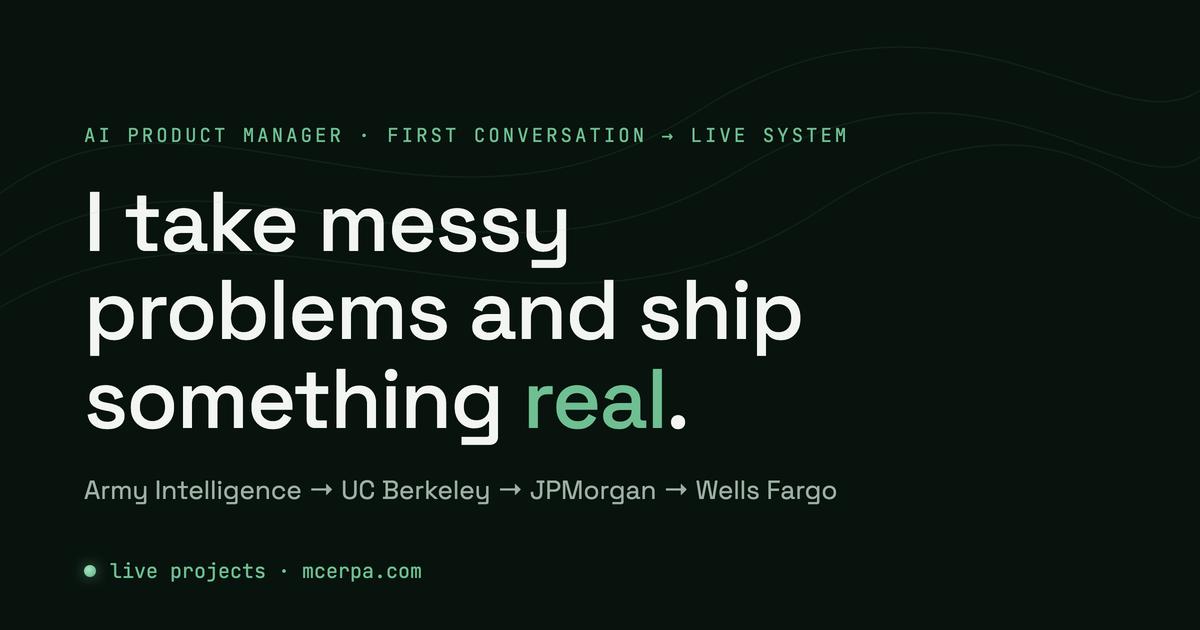
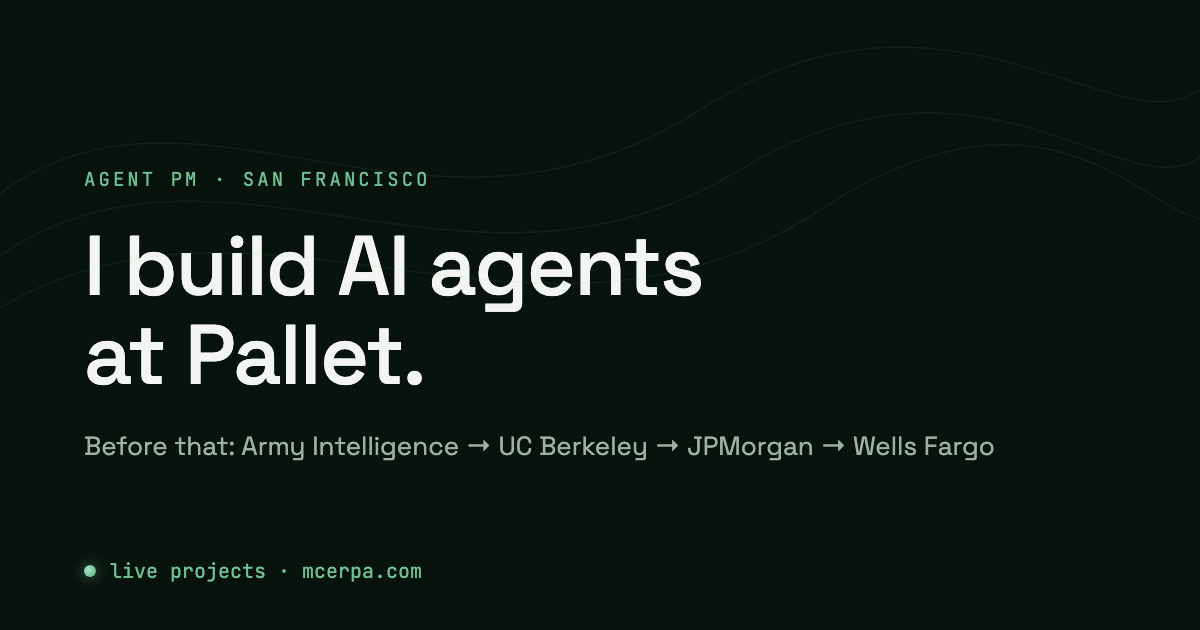
Site refresh: Pallet hero, Commute card, About rewrite
- Hero: the slogan is replaced with a plain fact — "I build AI agents at Pallet." —
  with the career arc as "Before that:" and an Agent PM · San Francisco eyebrow.
- Work: the "Work" heading and the Wells Fargo line are gone; the construction
  line stays as the only opener (heading kept for screen readers). Granite's blurb
  no longer points at "the platform work above".
- New stage 04 — Commute: the /bus/ (Golden Gate Transit) and /presidio/
  (Presidio GO) trackers, with live phone recordings from this morning's commute.
- About: Wells Fargo in the past tense and shorter; Pallet added.
- Meta tags, og.png social card, and README updated to match.

diff --git a/index.html b/index.html
@@ -3,8 +3,8 @@
 <head>
   <meta charset="UTF-8">
   <meta name="viewport" content="width=device-width, initial-scale=1.0">
-  <title>Michael Cerpa — AI Product Manager</title>
-  <meta name="description" content="AI Product Manager shipping 0-to-1 in regulated finance. Army Intelligence → UC Berkeley → JPMorgan → Wells Fargo. Live, clickable projects — not slideware.">
+  <title>Michael Cerpa — Agent PM</title>
+  <meta name="description" content="Michael Cerpa builds AI agents at Pallet. Before that: Army Intelligence, UC Berkeley, JPMorgan, Wells Fargo. Live projects you can open and use.">
   <meta name="theme-color" content="#08130D">
 
   <link rel="icon" type="image/png" sizes="48x48" href="favicon.png">
@@ -12,15 +12,15 @@
 
   <meta property="og:type" content="website">
   <meta property="og:site_name" content="Michael Cerpa">
-  <meta property="og:title" content="Michael Cerpa — AI Product Manager">
-  <meta property="og:description" content="I take messy problems and ship something real. Live projects from regulated-finance AI and the Sierra backcountry.">
+  <meta property="og:title" content="Michael Cerpa — Agent PM at Pallet">
+  <meta property="og:description" content="I build AI agents at Pallet. Live projects: enterprise AI, Sierra trip planning, and Bay Area transit.">
   <meta property="og:url" content="https://mcerpa.com/">
   <meta property="og:image" content="https://mcerpa.com/og.png">
   <meta property="og:image:width" content="1200">
   <meta property="og:image:height" content="630">
   <meta name="twitter:card" content="summary_large_image">
-  <meta name="twitter:title" content="Michael Cerpa — AI Product Manager">
-  <meta name="twitter:description" content="I take messy problems and ship something real. Live projects from regulated-finance AI and the Sierra backcountry.">
+  <meta name="twitter:title" content="Michael Cerpa — Agent PM at Pallet">
+  <meta name="twitter:description" content="I build AI agents at Pallet. Live projects: enterprise AI, Sierra trip planning, and Bay Area transit.">
   <meta name="twitter:image" content="https://mcerpa.com/og.png">
 
   <link rel="preload" href="fonts/SpaceGrotesk-var.woff2" as="font" type="font/woff2" crossorigin>
@@ -49,9 +49,9 @@
     <path d="M-20,185 C260,-30 560,280 910,75 S1420,185 1490,10" fill="none" stroke="#6FBF93" stroke-width="1"/>
   </svg>
 
-  <div class="eyebrow up d1">AI Product Manager · First conversation → live system</div>
-  <h1 class="up d2">I take messy problems and ship something <span class="acc">real</span>.</h1>
-  <p class="sub up d3">Army Intelligence → UC Berkeley → JPMorgan → Wells Fargo</p>
+  <div class="eyebrow up d1">Agent PM · San Francisco</div>
+  <h1 class="up d2">I build AI agents at Pallet.</h1>
+  <p class="sub up d3">Before that: Army&nbsp;Intelligence → UC&nbsp;Berkeley → JPMorgan → Wells&nbsp;Fargo</p>
 
   <p class="tick up d3" id="tick" hidden>
     <span class="beacon" aria-hidden="true"></span>
@@ -60,10 +60,9 @@
 </header>
 
 <main>
-  <section class="block wrap" id="work">
-    <h2 class="kicker">Work</h2>
-    <p class="lead">I'm the first AI product manager in Wells Fargo's wholesale digital organization. I lead the delivery of its first client-facing GenAI experience.</p>
-    <p class="lead">I grew up building while working summers at my family's construction company. The itch to build never left, the materials just changed.</p>
+  <section class="block wrap" id="work" aria-labelledby="work-h">
+    <h2 class="sr-only" id="work-h">Work</h2>
+    <p class="intro">I grew up building while working summers at my family's construction company. The itch to build never left, the materials just changed.</p>
 
     <article class="stage">
       <div class="rail">
@@ -73,7 +72,7 @@
         <div class="blurb">
           <p>An interactive architecture for building AI in spaces with high reputational risk and federal regulations — where a wrong answer is worse than no answer.</p>
           <p>Trace a request through intent → entitlements → orchestration → grounded response → LLM-as-a-judge → audit, and watch it refuse rather than guess.</p>
-          <p>Along the way, it shows where choosing deterministic over generative pays off. Click into each node to see the thinking behind the platform work above.</p>
+          <p>Along the way, it shows where choosing deterministic over generative pays off. Click into each node to see the thinking behind it.</p>
         </div>
         <a class="openlink" href="/granite/" data-fallback="https://granite-gilt-zeta.vercel.app">view project <span class="arrow">→</span></a>
       </div>
@@ -124,6 +123,37 @@
         </picture>
       </a>
     </article>
+
+    <article class="stage">
+      <div class="rail">
+        <div class="idx">04 — Commute</div>
+        <div class="cats">side project · bay area transit · live data</div>
+        <span class="livetag"><span class="dot" aria-hidden="true"></span>live</span>
+        <div class="blurb">
+          <p>My friends and I couldn't rely on the live times Apple Maps showed for our Golden Gate Transit and Presidio GO commutes. So I built a tracker for each, connected straight to the source: the agency's own real-time feed.</p>
+          <p>Every arrival time on screen says where it came from: the bus's GPS, the agency's prediction, or just the timetable. When a trip is canceled or the feed goes stale, the page says so instead of guessing.</p>
+          <p>It also knows the rules the feeds leave out, like Presidio GO's pass-only rush-hour runs and its weekend schedule on federal holidays. Tap the bus you're on and it counts down your stops, then tells you when to pull the cord.</p>
+        </div>
+        <div class="links">
+          <a class="openlink" href="/bus/">Golden Gate Transit <span class="arrow">→</span></a>
+          <a class="openlink" href="/presidio/">Presidio GO <span class="arrow">→</span></a>
+        </div>
+      </div>
+      <div class="phones">
+        <a class="stageshot phone" href="/bus/" aria-label="Open the Golden Gate Transit tracker">
+          <picture>
+            <source srcset="assets/bus-anim.webp" media="(prefers-reduced-motion: no-preference)">
+            <img src="assets/bus.webp" alt="Golden Gate Transit tracker — the next bus and how late it is, then ride mode counting down stops" loading="lazy" decoding="async" width="640" height="1182">
+          </picture>
+        </a>
+        <a class="stageshot phone" href="/presidio/" aria-label="Open the Presidio GO tracker">
+          <picture>
+            <source srcset="assets/presidio-anim.webp" media="(prefers-reduced-motion: no-preference)">
+            <img src="assets/presidio.webp" alt="Presidio GO tracker — the next shuttle, then shuttles moving on the live map" loading="lazy" decoding="async" width="640" height="1182">
+          </picture>
+        </a>
+      </div>
+    </article>
   </section>
 
   <section class="block wrap" id="about">
@@ -132,8 +162,8 @@
       <p>I enlisted in the Army at 18 and spent four years as an intelligence analyst — briefing generals in an underground bunker near the Korean border, driving tanks across the Mojave.</p>
       <p>Then Berkeley: Political Economy and Finance (Haas BASE Program, 2021), splitting time between reading geopolitical theory and reconciling balance sheets.</p>
       <p>Post-Berkeley I joined JPMorgan as an associate product manager, rotating across three teams — onboarding, an innovation team hunting the bank's next bet, and the platform behind the digital bank. That's where I figured out I'm a 0-to-1 PM. I'd rather ship scrappy and hand off at scale.</p>
-      <p>I moved to Wells Fargo for more ownership and autonomy. I was hired to build the new capital markets &amp; investing experience, but my AI interests took over during the strategy phase: I recruited a senior architect and an engineer and delivered an end-to-end GenAI experience for Wells' FX clients — proof to the enterprise that safe, governed GenAI was possible. Adoption was thin. Not the AI's fault: roadmap dependencies and data migrations got in the way, typical at a big bank. A year in, I pivoted to a platform strategy that solidified the team's role in AI delivery, secured funding to build it out, and brought senior leadership in to clear roadblocks.</p>
-      <p>I'm coming up on two years at Wells and want to keep building with AI.</p>
+      <p>At Wells Fargo I was the first AI product manager in the wholesale digital organization. I recruited a senior architect and an engineer, and we delivered a governed GenAI experience for the bank's FX clients. When adoption stalled on data migrations rather than the AI, I turned the work into a platform strategy and secured funding to build it out.</p>
+      <p>Now I'm an agent PM at <a href="https://pallet.com">Pallet</a>. We build AI agents that run day-to-day operations for manufacturers, distributors, and logistics companies.</p>
     </div>
     <p class="contact">
       <a href="mailto:michael.cerp@gmail.com">michael.cerp@gmail.com</a>

diff --git a/styles.css b/styles.css
@@ -38,6 +38,8 @@ body{background:var(--bg);color:var(--ink);font-family:var(--sans);font-weight:4
      line-height:1.6;-webkit-font-smoothing:antialiased;overflow-x:clip}
 .wrap{max-width:1120px;margin:0 auto;padding:0 clamp(28px,5vw,72px)}
 :focus-visible{outline:2px solid var(--accent);outline-offset:2px}
+.sr-only{position:absolute;width:1px;height:1px;margin:-1px;overflow:hidden;
+         clip:rect(0 0 0 0);white-space:nowrap;border:0}
 
 /* ---------- nav (quiet glass) ---------- */
 .nav{position:sticky;top:0;z-index:50;background:rgba(8,19,13,.82);
@@ -61,8 +63,7 @@ body{background:var(--bg);color:var(--ink);font-family:var(--sans);font-weight:4
 .eyebrow{font-family:var(--mono);font-size:12px;letter-spacing:.16em;text-transform:uppercase;
          color:var(--accent);margin-bottom:24px}
 .hero h1{font-size:clamp(40px,7vw,88px);line-height:1.05;font-weight:500;
-         letter-spacing:-.018em;max-width:16ch;color:var(--ink)}
-.hero h1 .acc{color:var(--accent)}
+         letter-spacing:-.018em;max-width:16ch;color:var(--ink);text-wrap:balance}
 .hero .sub{margin-top:22px;font-size:17px;color:var(--ink-soft);max-width:56ch}
 
 /* live tick — the one living element; hidden unless the data is real */
@@ -94,11 +95,14 @@ section.block{padding-top:56px;padding-bottom:56px;border-top:1px solid var(--ru
 .kicker,.block h2.kicker{font-family:var(--mono);font-size:12px;font-weight:400;
         letter-spacing:.15em;text-transform:uppercase;color:var(--accent);margin-bottom:14px}
 .block h2{font-size:30px;font-weight:500;letter-spacing:-.01em;margin-bottom:10px}
-.block .lead{color:var(--ink-soft);max-width:64ch;font-size:15.5px}
-.block .lead+.lead{margin-top:10px}
+/* work opener — one line, no heading */
+.intro{font-size:clamp(18px,2vw,21px);line-height:1.5;color:var(--ink);max-width:44ch}
 /* about */
 .prose{max-width:64ch}
 .prose p{color:var(--ink-soft);font-size:15.5px;margin-bottom:14px}
+.prose a{color:var(--ink);text-decoration:underline;text-decoration-color:var(--accent-deep);
+         text-underline-offset:3px;transition:text-decoration-color .2s var(--ease-out-soft)}
+.prose a:hover{text-decoration-color:var(--accent)}
 .contact{margin-top:20px;font-family:var(--mono);font-size:12.5px}
 .contact a{color:var(--accent);text-decoration:none;margin-right:20px}
 .contact a:hover{color:#C9F0DB}
@@ -141,6 +145,11 @@ section.block{padding-top:56px;padding-bottom:56px;border-top:1px solid var(--ru
 .stageshot img{width:100%;height:auto;display:block;
                transition:transform .35s var(--ease-out-soft)}
 .stageshot:hover img{transform:scale(1.012)}
+/* phone-first apps: two screens side by side, each opens its own app */
+.links{display:flex;flex-direction:column;align-items:flex-start;margin-top:10px}
+.links .openlink{margin-top:0;padding:7px 0}
+.phones{display:grid;grid-template-columns:1fr 1fr;gap:clamp(12px,2.5vw,24px)}
+.stageshot.phone{border-radius:18px}
 @media(prefers-reduced-motion:reduce){
   .stageshot img{transition:none}
   .openlink .arrow{transition:none}

diff --git a/README.md b/README.md
@@ -1,17 +1,17 @@
 # Michael Cerpa — Portfolio
 
-Personal portfolio site. I'm an operator who ships AI in regulated environments
-(Army intelligence → UC Berkeley → JPMorgan → Wells Fargo).
+Personal portfolio site. I build AI agents at Pallet. Before that: Army intelligence →
+UC Berkeley → JPMorgan → Wells Fargo.
 
 **Live:** https://mcerpa.com
 
 ## What this is
 
 A single hand-written page that exhibits my work — Granite and Strata (enterprise AI,
-sanitized) and Cairn (a live Sierra trip planner). Each project is its own repo and its
-own deploy; this site shows a muted screen-recording loop of each app in action and links
-to the live thing at `mcerpa.com/granite/`, `/strata/`, `/cairn/` — same domain, full
-viewport, no iframes.
+sanitized), Cairn (a live Sierra trip planner), and Commute (live trackers for my Golden
+Gate Transit and Presidio GO rides). Granite, Strata, and Cairn are each their own repo
+and deploy, served at `mcerpa.com/granite/`, `/strata/`, `/cairn/` — same domain, full
+viewport, no iframes. The Commute trackers live in this repo at `/bus/` and `/presidio/`.
 
 The hero carries one live element: current San Francisco weather, fetched by the
 visitor's own browser straight from the National Weather Service and typed out on load.
@@ -19,15 +19,18 @@ If the fetch fails, the line hides — it is never faked.
 
 ## Architecture
 
-Vanilla HTML / CSS / JS. No framework, no build step, no dependencies.
+Vanilla HTML / CSS / JS. No framework, no build step, no npm dependencies.
 
-| File | Job |
+| Path | Job |
 |------|-----|
-| `index.html` | The whole page, semantic hand-written HTML; ~60 lines of JS for the live weather line, the email-copy interaction, and nav state |
+| `index.html` | The whole page, semantic hand-written HTML; a little JS for the live weather line, the email-copy interaction, and nav state |
 | `styles.css` | All styling; design tokens (colors, fonts, the house ease) live in `:root` |
 | `vercel.json` | Rewrites that serve each project's separate Vercel deploy under this domain |
+| `bus/`, `presidio/` | The Commute trackers: phone-first pages, installable to the home screen |
+| `api/` | Vercel functions behind them. They read each agency's public GTFS timetable and GTFS-Realtime feeds directly, with zero-dependency ZIP, CSV, and protobuf readers in `api/_lib/` |
+| `tools/`, `.github/` | Tests against fresh snapshots of both agencies' feeds, run whenever the trackers change and every Monday |
 | `fonts/` | Two self-hosted variable fonts (Space Grotesk, JetBrains Mono) — no third-party font requests |
-| `assets/`, `photos/` | Card posters (WebP) + demo loops (MP4, loaded only in view) · summit photos |
+| `assets/`, `photos/` | Card posters (WebP) + demo loops (animated WebP) · summit photos |
 
 Motion is native CSS: scroll-driven reveals (`animation-timeline: view()`) and
 cross-document view transitions, both shipped as progressive enhancement, both
@@ -35,7 +38,7 @@ respecting `prefers-reduced-motion`.
 
 ## Deploy
 
-Static site on **Vercel**; auto-deploys on every push to `main`.
+Static site + functions on **Vercel**; auto-deploys on every push to `main`.
 
 ---
 Built with vanilla web tech + Claude Code.
